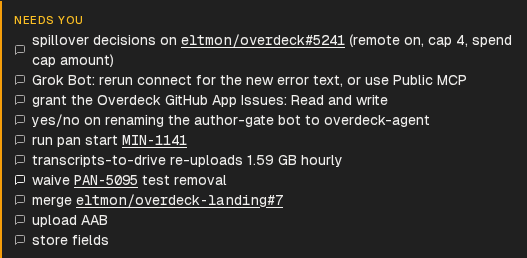
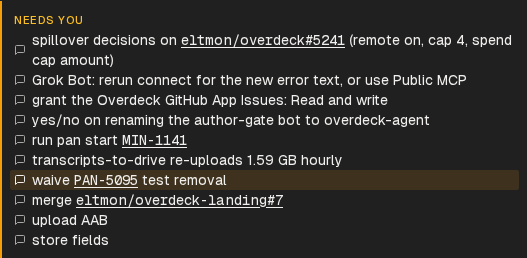
fix(dashboard): compile the Needs-you row hover background under Tailwind v3
hover:bg-warning/[0.14] compiled to no CSS: tailwind.config.js defines
warning.DEFAULT as a bare var(--warning) with no <alpha-value>
placeholder, so Tailwind v3 can't apply an opacity modifier to it (the
same reason the pre-existing sibling bg-warning/[0.08] on the Needs
You container never rendered either, which is unrelated and out of
scope here). Switch to the arbitrary-value color-mix(in srgb,
var(--warning) 14%, transparent) form already used by
.badge-bg-warning in index.css, which does compile. Update the ac4
test's class assertion and the PRD's FR-4/D7/After-snippet/test-bullet
to match, with a review-correction note explaining why.

Retook both UAT screenshots: 01 now shows the amber hover tint; 02
shows project context established before the jump (the project was
not selected in the prior session, so the Command Deck rendered its
empty state) — the click still navigates to /conv/conv-flywheel in
both cases, confirmed via the verification script's page.url() check.

Item: row-click-target
Item: row-click-target.ac3
Item: browser-hover-check
Item: browser-hover-check.ac1
Item: browser-hover-check.ac2

Changed region(s): [[0.0, 0.6512, 1.0, 0.7442]]

diff --git a/src/dashboard/frontend/src/components/flywheel/FlywheelStatusPane.tsx b/src/dashboard/frontend/src/components/flywheel/FlywheelStatusPane.tsx
@@ -167,7 +167,7 @@ export function FlywheelStatusPane({ status, unreachable, nowMs, onNavigateIssue
                       data-testid="flywheel-needs-you-item"
                       className={
                         jumpId
-                          ? 'group -mx-1 flex cursor-pointer items-baseline gap-1.5 rounded-sm px-1 hover:bg-warning/[0.14]'
+                          ? 'group -mx-1 flex cursor-pointer items-baseline gap-1.5 rounded-sm px-1 hover:bg-[color-mix(in_srgb,var(--warning)_14%,transparent)]'
                           : '-mx-1 flex items-baseline gap-1.5 px-1'
                       }
                       onClick={

diff --git a/src/dashboard/frontend/src/components/flywheel/__tests__/FlywheelStatusPane.test.tsx b/src/dashboard/frontend/src/components/flywheel/__tests__/FlywheelStatusPane.test.tsx
@@ -219,7 +219,7 @@ describe('FlywheelStatusPane (PAN-3964 FR-9)', () => {
       render(<FlywheelStatusPane status={jumpableRowStatus()} unreachable={false} nowMs={NOW} />);
       const row = screen.getAllByTestId('flywheel-needs-you-item')[0]!;
       expect(row.className).toContain('cursor-pointer');
-      expect(row.className).toContain('hover:bg-warning/[0.14]');
+      expect(row.className).toContain('hover:bg-[color-mix(in_srgb,var(--warning)_14%,transparent)]');
       expect(row).not.toHaveAttribute('role');
       expect(row).not.toHaveAttribute('tabindex');
     });

diff --git a/.pan/drafts/PAN-5275.md b/.pan/drafts/PAN-5275.md
@@ -74,7 +74,7 @@ Current row render, `FlywheelStatusPane.tsx` lines 155–216 (grep anchor: `data
 - **FR-1** — On a jumpable row, a click anywhere on the row that is not on an inner control or the jump button calls `onNeedsYouClick(row.messageId)` exactly once.
 - **FR-2** — A click on the jump button calls `onNeedsYouClick(row.messageId)` exactly once (not twice through bubbling to the row).
 - **FR-3** — A click on an inner control (issue button, PR link, item-target link) does its own action and does not call `onNeedsYouClick`. An issue button still calls `onNavigateIssue(issueId)`.
-- **FR-4** — A jumpable row shows that it is a target: `cursor: pointer`, a hover background (`hover:bg-warning/[0.14]`, the class the pre-PAN-5217 row used), and the jump icon brightens to `text-foreground` while the row is hovered.
+- **FR-4** — A jumpable row shows that it is a target: `cursor: pointer`, a hover background (`hover:bg-[color-mix(in_srgb,var(--warning)_14%,transparent)]`; see the review correction below the "After" snippet for why this replaces the originally-specified `hover:bg-warning/[0.14]`), and the jump icon brightens to `text-foreground` while the row is hovered.
 - **FR-5** — A row without a first-raised id has no click handler, no `cursor-pointer` class and no hover background. Clicking it calls nothing.
 - **FR-6** — No row gets a `role`, a `tabIndex` or an `onKeyDown`. The jump button stays the row's single keyboard target: it is a native button, so Enter and Space activate it, and it keeps its `focus-visible:ring-2` focus ring. The ACT 307n5z test keeps passing, now also over a jumpable row.
 - **FR-7** — When the operator ends a drag-selection of text inside the row, the resulting click does not jump. A plain click (collapsed selection) jumps.
@@ -99,7 +99,8 @@ Current row render, `FlywheelStatusPane.tsx` lines 155–216 (grep anchor: `data
   ```
 
   The row handler returns early when it is true.
-- **D7 — Hover styling.** Jumpable `<li>` className: `group -mx-1 flex cursor-pointer items-baseline gap-1.5 rounded-sm px-1 hover:bg-warning/[0.14]`. The `-mx-1 px-1` pair gives the hover background a little room without moving the text column. The jump button adds `group-hover:text-foreground`. Non-jumpable `<li>` keeps `-mx-1 flex items-baseline gap-1.5 px-1` so both kinds of rows stay aligned.
+- **D7 — Hover styling.** Jumpable `<li>` className: `group -mx-1 flex cursor-pointer items-baseline gap-1.5 rounded-sm px-1 hover:bg-[color-mix(in_srgb,var(--warning)_14%,transparent)]`. The `-mx-1 px-1` pair gives the hover background a little room without moving the text column. The jump button adds `group-hover:text-foreground`. Non-jumpable `<li>` keeps `-mx-1 flex items-baseline gap-1.5 px-1` so both kinds of rows stay aligned.
+  - **Review correction (PAN-5275 review cycle 1):** this originally specified `hover:bg-warning/[0.14]`, matching the pre-PAN-5217 row's class. That generates no CSS under this dashboard's Tailwind 3.4 config: `tailwind.config.js` defines `warning.DEFAULT: 'var(--warning)'` as a bare CSS variable with no `<alpha-value>` placeholder, and Tailwind v3 cannot apply an opacity modifier to a color in that form, so `bg-warning/<anything>` always compiles to nothing (confirmed by review, and true of the pre-existing `bg-warning/[0.08]` on the Needs You container and other `bg-warning/[…]`/`border-warning/[…]` uses elsewhere in the dashboard — a separate, out-of-scope issue). The `color-mix(in_srgb,var(--warning)_14%,transparent)` arbitrary-value form compiles correctly and matches the pattern `src/index.css`'s `.badge-bg-warning` already uses.
 - **D8 — No `title` on the row.** A row tooltip would also show over the inner links and mislead. The jump button keeps its own `title`.
 - **D9 — No new component.** The change is about 15 lines in the existing map; extracting a row component is not needed for this issue.
 - **D10 — Screenshots** go in `docs/screenshots/pan-5275/` (the `.gitignore` comment at line 210 names `docs/screenshots/<topic>/` as the place for them) and are linked from the PR body with `?raw=true` blob URLs, as PAN-5239 did.
@@ -114,7 +115,7 @@ Current row render, `FlywheelStatusPane.tsx` lines 155–216 (grep anchor: `data
       key={row.key}
       data-testid="flywheel-needs-you-item"
       className={jumpId
-        ? 'group -mx-1 flex cursor-pointer items-baseline gap-1.5 rounded-sm px-1 hover:bg-warning/[0.14]'
+        ? 'group -mx-1 flex cursor-pointer items-baseline gap-1.5 rounded-sm px-1 hover:bg-[color-mix(in_srgb,var(--warning)_14%,transparent)]'
         : '-mx-1 flex items-baseline gap-1.5 px-1'}
       {...(jumpId ? {
         onClick: (e: MouseEvent<HTMLLIElement>) => {
@@ -165,7 +166,7 @@ Tests in `FlywheelStatusPane.test.tsx` (add a `describe('whole-row jump (PAN-527
 - `clicking the jump button jumps exactly once (ac2)`: click `flywheel-needs-you-jump` → `toHaveBeenCalledTimes(1)` and `toHaveBeenCalledWith('m2')`.
 - `an inner issue button navigates and does not jump (ac3)`: click `flywheel-needs-you-issue` on the jumpable row → `onNavigateIssue('PAN-5095')`, `onNeedsYouClick` not called.
 - `inner PR and target links do not jump (ac3)`: before clicking, add `document.addEventListener('click', prevent, { capture: true })` where `prevent = (e) => e.preventDefault()` so happy-dom does not navigate; remove it after. Click `flywheel-needs-you-pr`, then (with a target fixture `upload AAB <https://play.google.com/console/x>` that also has `firstRaisedMessageId`) click `flywheel-needs-you-link` → `onNeedsYouClick` not called. If happy-dom still tries to open a window for a `target="_blank"` anchor, also stub `vi.spyOn(window, 'open').mockReturnValue(null)` and restore it after.
-- `a jumpable row is pointer-styled but not a button (ac4)`: the jumpable `<li>` has class `cursor-pointer` and `hover:bg-warning/[0.14]`, and no `role` and no `tabindex` attribute.
+- `a jumpable row is pointer-styled but not a button (ac4)`: the jumpable `<li>` has class `cursor-pointer` and `hover:bg-[color-mix(in_srgb,var(--warning)_14%,transparent)]`, and no `role` and no `tabindex` attribute.
 - `a row without a first-raised id is plain text (ac5)`: a fixture with one item and no `firstRaisedMessageId` → the `<li>` has no `cursor-pointer` class, clicking it calls nothing.
 - `ending a text selection inside the row does not jump (ac6)`: `vi.spyOn(window, 'getSelection').mockReturnValue({ isCollapsed: false, anchorNode: <a text node inside the row> } as unknown as Selection)`, click the row → not called; restore the spy, click again → called once.
 - Extend the existing `no button-role element contains another button or link (PAN-5217, ACT 307n5z)` test: add `needsYouItems` with `firstRaisedMessageId` to its fixture so the jumpable row (and its jump button) is covered. Keep its existing presence assertions.
